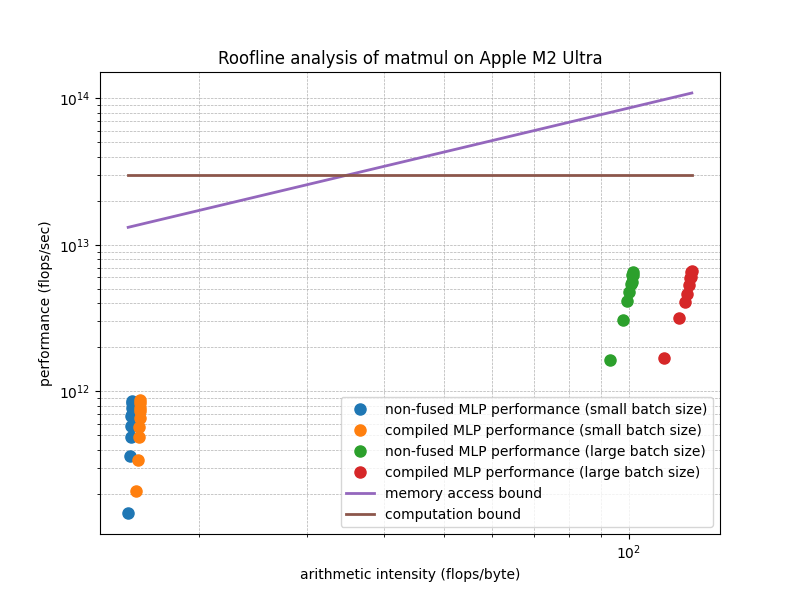
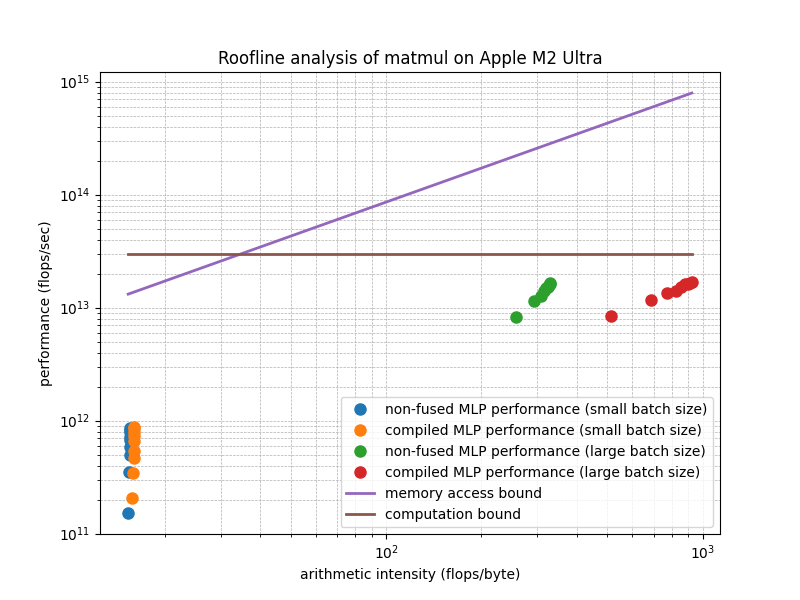
Fuse: use large batch size (#10)
* Add fuse.md

* Update

* Update

* Update

diff --git a/fuse.html b/fuse.html
@@ -72,7 +72,7 @@ class="sourceCode python"><code class="sourceCode python"><span id="cb2-1"><a hr
 <span id="cb2-12"><a href="#cb2-12" aria-hidden="true" tabindex="-1"></a></span>
 <span id="cb2-13"><a href="#cb2-13" aria-hidden="true" tabindex="-1"></a>DT <span class="op">=</span> mx.float16</span>
 <span id="cb2-14"><a href="#cb2-14" aria-hidden="true" tabindex="-1"></a>b <span class="op">=</span> <span class="dv">16</span>  <span class="co"># a small batch size</span></span>
-<span id="cb2-15"><a href="#cb2-15" aria-hidden="true" tabindex="-1"></a>B <span class="op">=</span> <span class="dv">128</span>  <span class="co"># a large batch size</span></span>
+<span id="cb2-15"><a href="#cb2-15" aria-hidden="true" tabindex="-1"></a>B <span class="op">=</span> <span class="dv">1024</span>  <span class="co"># a large batch size</span></span>
 <span id="cb2-16"><a href="#cb2-16" aria-hidden="true" tabindex="-1"></a>I <span class="op">=</span> <span class="dv">1024</span>  <span class="co"># input dimension. The intermediate dimension will be I*h for h in range(10)</span></span>
 <span id="cb2-17"><a href="#cb2-17" aria-hidden="true" tabindex="-1"></a></span>
 <span id="cb2-18"><a href="#cb2-18" aria-hidden="true" tabindex="-1"></a></span>

diff --git a/fuse.py b/fuse.py
@@ -12,7 +12,7 @@ import mlx.nn
 
 DT = mx.float16
 b = 16  # a small batch size
-B = 128  # a large batch size
+B = 1024  # a large batch size
 I = 1024  # input dimension. The intermediate dimension will be I*h for h in range(10)
 
 

diff --git a/fuse.md b/fuse.md
@@ -57,7 +57,7 @@ import mlx.nn
 
 DT = mx.float16
 b = 16  # a small batch size
-B = 128  # a large batch size
+B = 1024  # a large batch size
 I = 1024  # input dimension. The intermediate dimension will be I*h for h in range(10)
 
 
